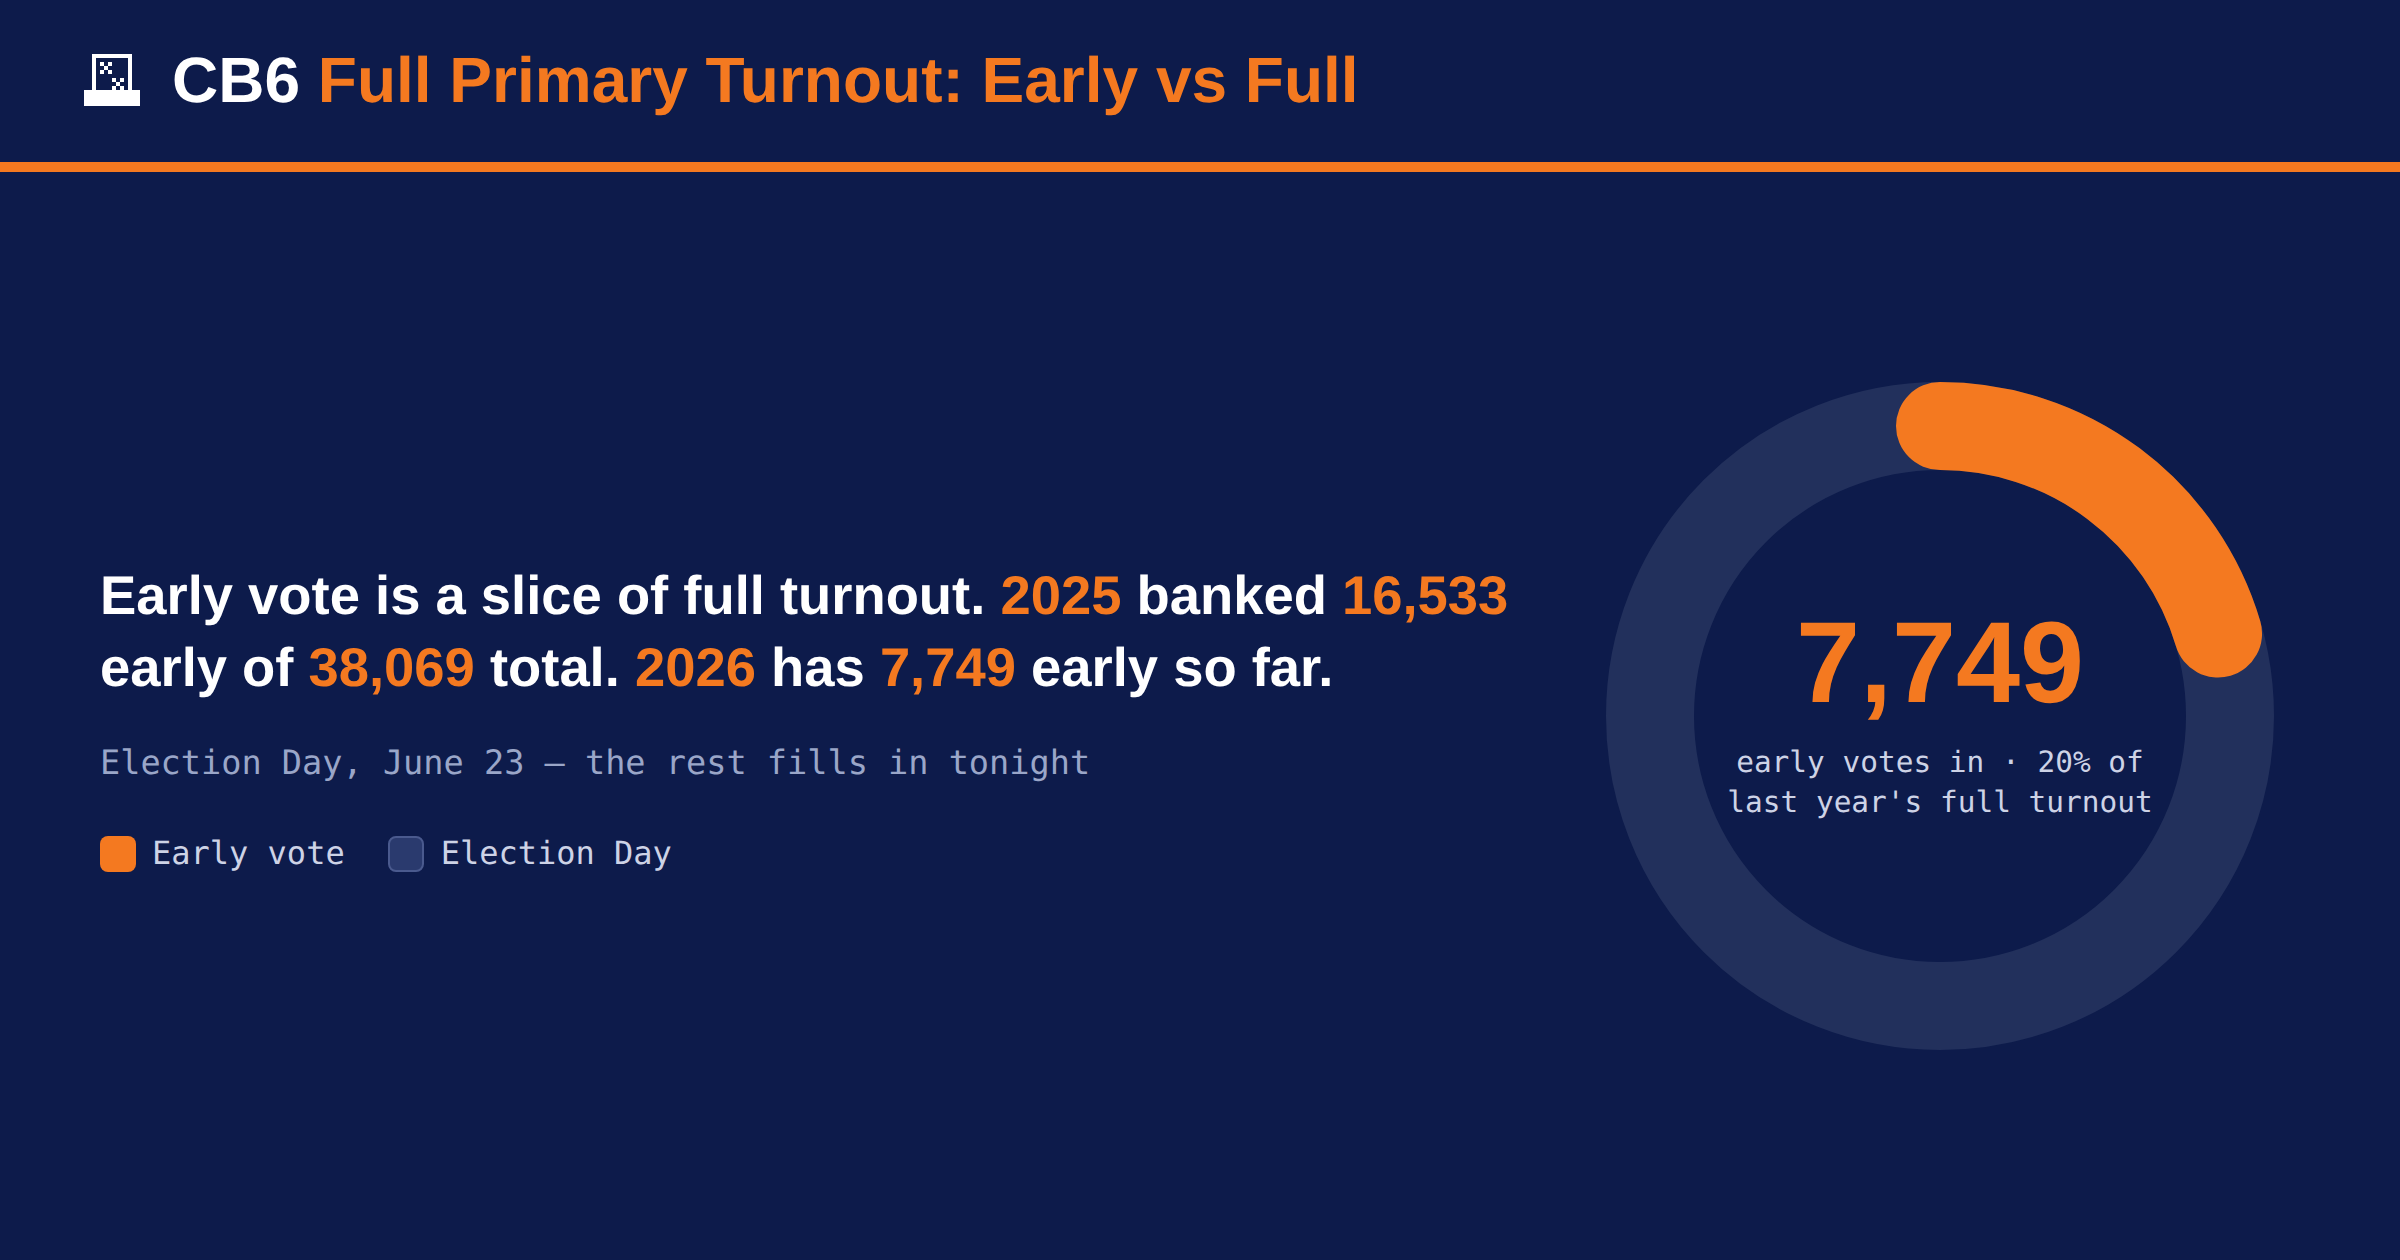
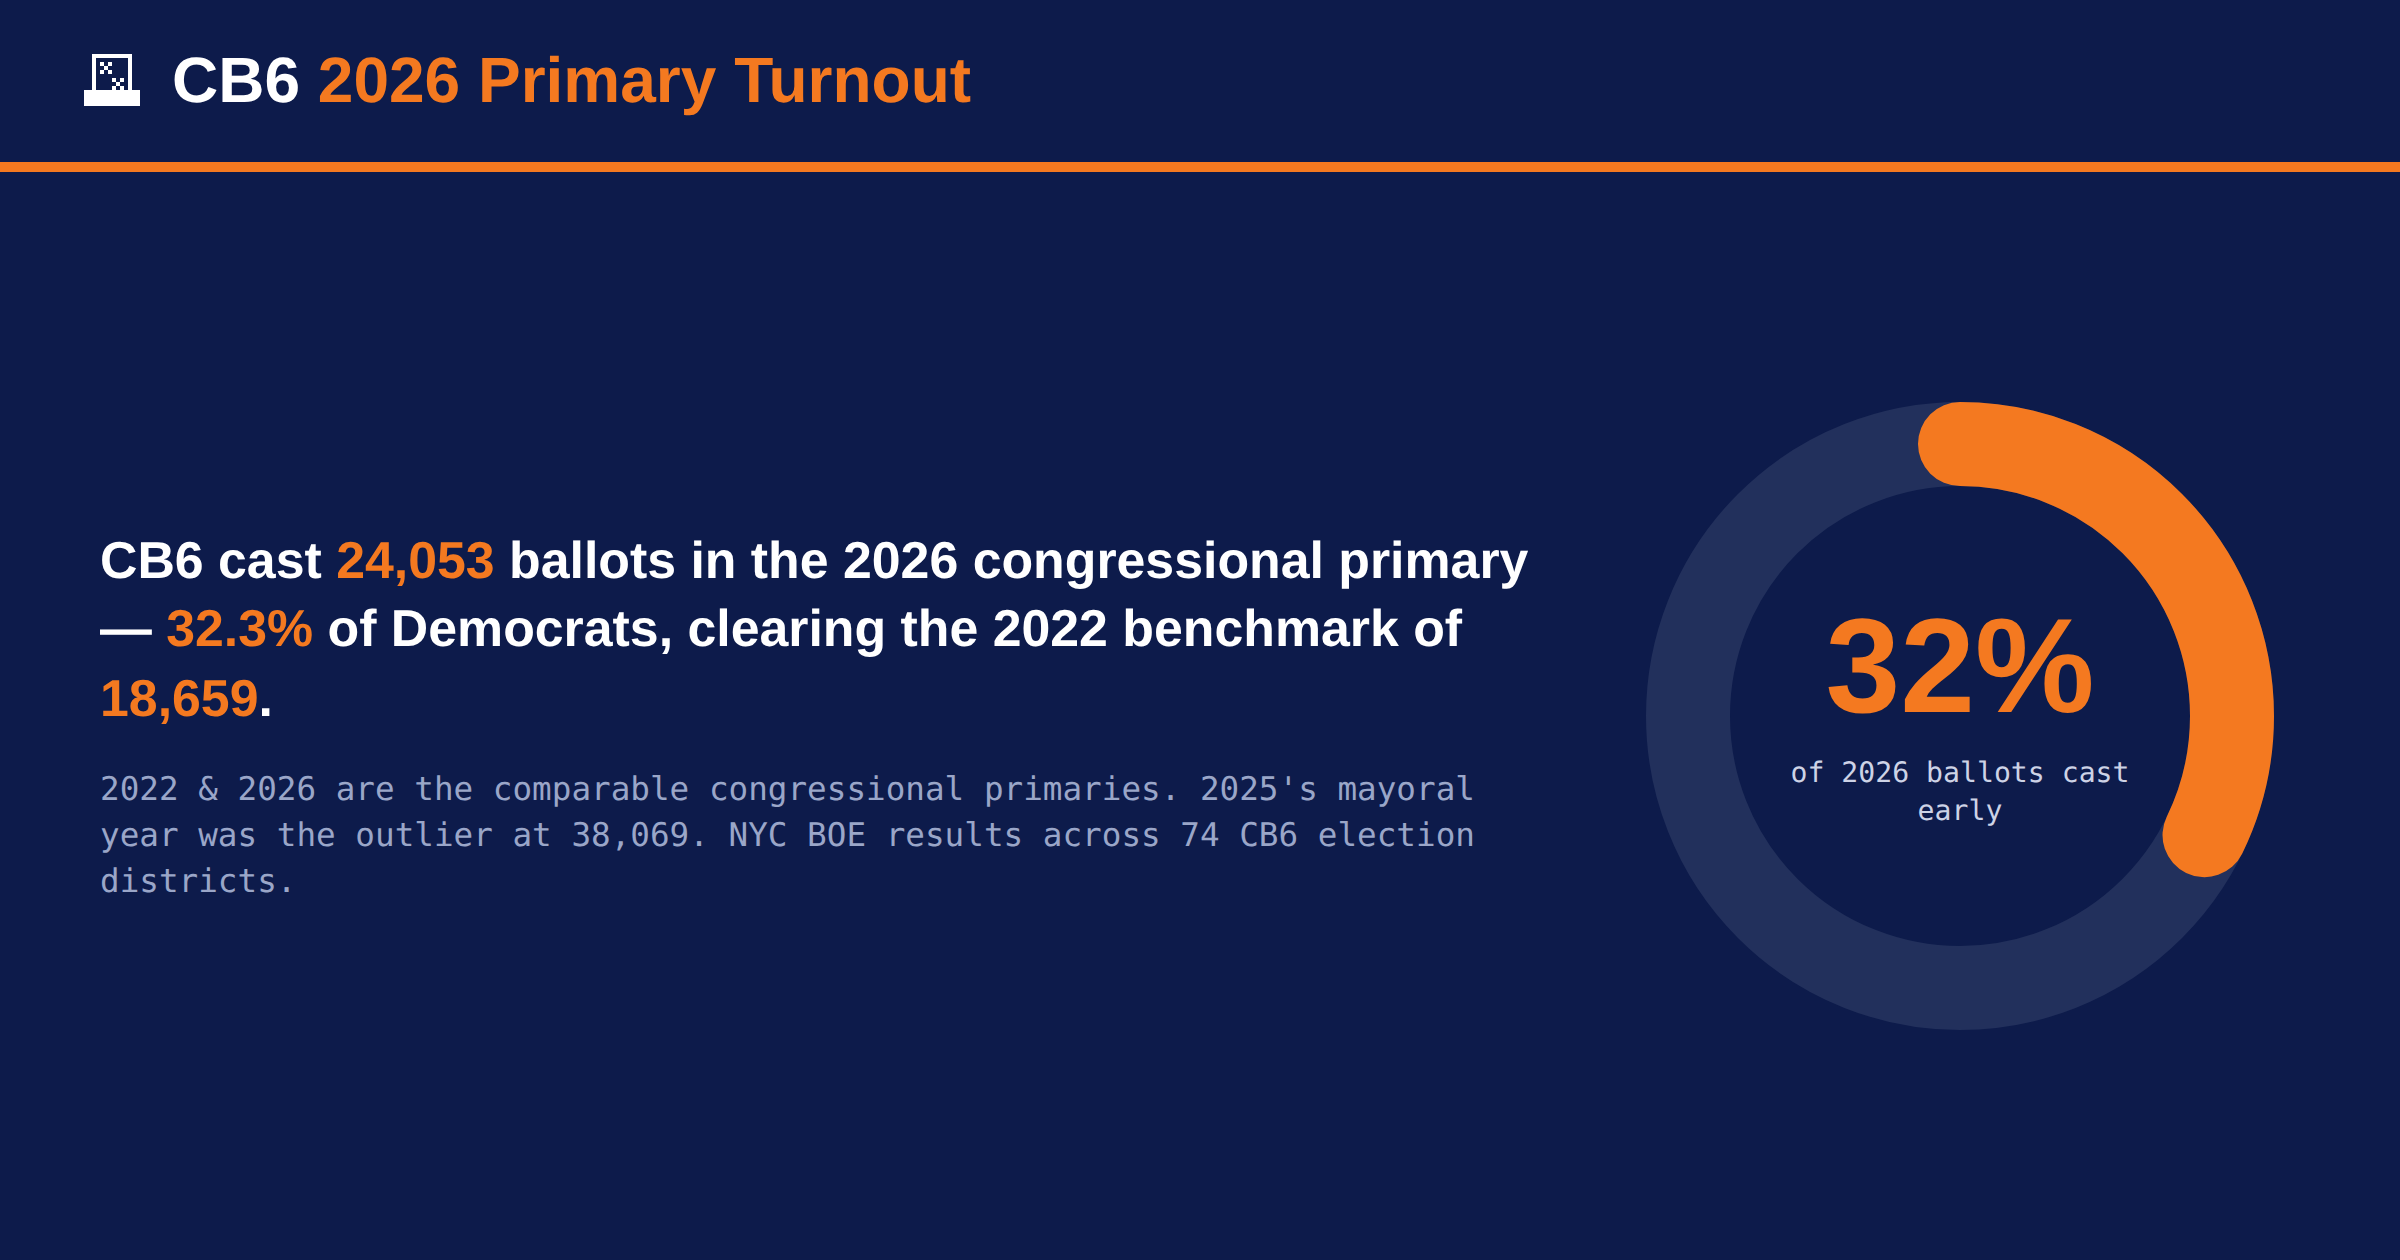
turnout viz: final 2026 results (24,053) + 2022 benchmark bar & line; reframe ring to 32% early; update OG card & stat bar; bump cache

diff --git a/early-vote-map.html b/early-vote-map.html
@@ -7,15 +7,15 @@
 <meta name="apple-mobile-web-app-status-bar-style" content="black-translucent">
 <title>BKCB6 — Early Voting by Election District</title>
 <meta property="og:type" content="website">
-<meta property="og:title" content="CB6 Full Primary Turnout: Early vs Full">
-<meta property="og:description" content="Early vote is a slice of full turnout. 2025 banked 16,533 early of 38,069 total. 2026 has 7,749 early so far — the rest fills in tonight.">
+<meta property="og:title" content="CB6 2026 Primary Turnout">
+<meta property="og:description" content="CB6 cast 24,053 ballots in the 2026 congressional primary — 32.3% of Democrats, clearing the 2022 benchmark of 18,659. 2025 was the mayoral outlier at 38,069.">
 <meta property="og:image" content="https://bkcb6.app/og-early-vote.png">
 <meta property="og:image:width" content="2400">
 <meta property="og:image:height" content="1260">
 <meta property="og:url" content="https://bkcb6.app/early-vote-map.html">
 <meta name="twitter:card" content="summary_large_image">
-<meta name="twitter:title" content="CB6 Full Primary Turnout: Early vs Full">
-<meta name="twitter:description" content="2026 has 7,749 early votes in — 20% of last year's full turnout. The rest fills in tonight.">
+<meta name="twitter:title" content="CB6 2026 Primary Turnout">
+<meta name="twitter:description" content="24,053 ballots cast — 32.3% of Democrats, clearing the 2022 congressional benchmark of 18,659.">
 <meta name="twitter:image" content="https://bkcb6.app/og-early-vote.png">
 <meta name="description" content="Brooklyn CB6 early-vote turnout by election district, 2025 vs 2026 Democratic primaries. NYC Board of Elections data across all 74 CB6 election districts.">
 <link rel="preconnect" href="https://fonts.googleapis.com">
@@ -55,8 +55,11 @@ body{display:flex;flex-direction:column;min-height:100%;height:auto}
 .tn-sw-early{background:#f47920}
 .tn-sw-elec{background:#2a3a6e;border:1px solid #4a5a8e}
 .tn-sw-tbd{background:repeating-linear-gradient(45deg,#13265c,#13265c 5px,#1c2f6e 5px,#1c2f6e 10px);border:1.5px dashed #6b7aa8}
-.tn-chart{display:flex;align-items:flex-end;gap:54px;justify-content:center;height:330px;padding:44px 24px 0;border-bottom:2px solid #2a3a6e;margin-bottom:10px}
-.tn-col{flex:1;max-width:130px;display:flex;flex-direction:column;align-items:center;justify-content:flex-end;height:100%}
+.tn-chart{position:relative;display:flex;align-items:flex-end;gap:26px;justify-content:center;height:330px;padding:44px 20px 0;border-bottom:2px solid #2a3a6e;margin-bottom:10px}
+.tn-col{flex:1;max-width:110px;display:flex;flex-direction:column;align-items:center;justify-content:flex-end;height:100%}
+.tn-seg-solid{background:#f47920;border-radius:6px 6px 0 0}
+.tn-bench{position:absolute;left:20px;right:20px;border-top:2px dashed #f7a05a;z-index:3;pointer-events:none}
+.tn-bench-lab{position:absolute;left:0;top:-15px;font-family:'DM Mono',monospace;font-size:.58rem;color:#f7a05a;background:#0d1b4b;padding:0 5px;white-space:nowrap}
 .tn-stack{width:100%;display:flex;flex-direction:column;justify-content:flex-end;position:relative;height:100%}
 .tn-seg{width:100%;position:relative;display:flex;align-items:center;justify-content:center}
 .tn-seg-early{background:#f47920}
@@ -64,6 +67,7 @@ body{display:flex;flex-direction:column;min-height:100%;height:auto}
 .tn-seg-tbd{background:repeating-linear-gradient(45deg,#13265c,#13265c 5px,#1c2f6e 5px,#1c2f6e 10px);border:1.5px dashed #6b7aa8;border-bottom:none}
 .tn-r25{border-radius:6px 6px 0 0;overflow:hidden}
 .tn-r26{border-radius:6px 6px 0 0}
+.tn-r22{border-radius:6px 6px 0 0;overflow:hidden}
 .tn-seg .tn-lab{font-size:.74rem;font-weight:700;color:#fff;text-align:center;line-height:1.15;text-shadow:0 1px 2px rgba(0,0,0,.35);padding:2px 4px}
 .tn-seg-tbd .tn-lab{color:#aab4d8;font-family:'DM Mono',monospace;font-size:.66rem;font-weight:500;text-shadow:none}
 .tn-total{position:absolute;top:-44px;left:0;right:0;text-align:center}
@@ -71,8 +75,8 @@ body{display:flex;flex-direction:column;min-height:100%;height:auto}
 .tn-total .tn-p{font-size:.7rem;font-family:'DM Mono',monospace;color:#cdd3e6;margin-top:2px;display:block}
 .tn-total.tn-pending{top:-52px}
 .tn-total.tn-pending .tn-n{color:#9aa6c8}
-.tn-cols{display:flex;gap:54px;justify-content:center;max-width:560px;margin:0 auto;padding:0 24px}
-.tn-xlab{flex:1;max-width:130px;text-align:center;margin-top:14px}
+.tn-cols{display:flex;gap:30px;justify-content:center;max-width:560px;margin:0 auto;padding:0 16px}
+.tn-xlab{flex:1;max-width:110px;text-align:center;margin-top:14px}
 .tn-xlab .tn-yr{font-size:1.05rem;font-weight:700}
 .tn-xlab .tn-sub{font-size:.7rem;font-family:'DM Mono',monospace;color:#9aa6c8;margin-top:2px}
 .tn-foot{max-width:560px;margin:20px auto 0;padding:14px 18px 18px;border-top:1px solid #2a3a6e;font-family:'DM Mono',monospace;font-size:.66rem;color:rgba(255,255,255,.55);line-height:1.6}
@@ -101,26 +105,32 @@ body{display:flex;flex-direction:column;min-height:100%;height:auto}
 <body>
 <section id="turnout">
   <div class="tn-head"><h2>🗳 CB6 <span>Full Primary Turnout: Early vs Full</span></h2></div>
-  <div class="tn-stat">Early vote is a slice of full turnout · <b>2025</b> banked <b>16,533</b> early of <b>38,069</b> total · <b>2026</b> has <b>7,749</b> early so far</div>
+  <div class="tn-stat">CB6 cast <b>24,053</b> ballots in the 2026 congressional primary · <b>32.3%</b> of Democrats · clearing the 2022 benchmark of <b>18,659</b>. 2025's mayoral primary was the outlier at <b>38,069</b>.</div>
   <div class="tn-wrap">
     <div class="tn-ring-wrap">
       <div class="tn-donut">
-        <svg width="220" height="220" viewBox="0 0 220 220" aria-label="2026 early vote progress ring">
+        <svg width="220" height="220" viewBox="0 0 220 220" aria-label="2026 early vote share of final turnout">
           <circle cx="110" cy="110" r="88" fill="none" stroke="#22305c" stroke-width="28"/>
           <circle cx="110" cy="110" r="88" fill="none" stroke="#f47920" stroke-width="28"
-            stroke-dasharray="112.7 440.1" stroke-linecap="round" transform="rotate(-90 110 110)"/>
+            stroke-dasharray="178.0 374.9" stroke-linecap="round" transform="rotate(-90 110 110)"/>
         </svg>
-        <div class="tn-ctr"><span class="tn-rn">7,749</span><span class="tn-rl">early votes in &middot; 20% of last year's full turnout</span></div>
+        <div class="tn-ctr"><span class="tn-rn">32%</span><span class="tn-rl">of 2026's 24,053 ballots were cast early</span></div>
       </div>
-      <div class="tn-rsub">Election Day, June 23 &mdash; the rest fills in tonight</div>
+      <div class="tn-rsub">2026 cleared the 2022 congressional benchmark by 29%</div>
     </div>
     <div class="tn-divider"></div>
     <div class="tn-key">
       <span><i class="tn-sw tn-sw-early"></i>Early vote</span>
       <span><i class="tn-sw tn-sw-elec"></i>Election Day</span>
-      <span><i class="tn-sw tn-sw-tbd"></i>Still counting</span>
     </div>
     <div class="tn-chart">
+      <div class="tn-bench" style="bottom:calc((330px - 44px) * 0.49)"><span class="tn-bench-lab">2022 level · 18,659</span></div>
+      <div class="tn-col">
+        <div class="tn-stack tn-r22" style="height:49%">
+          <div class="tn-total"><span class="tn-n">18,659</span><span class="tn-p">26.2% of Dems</span></div>
+          <div class="tn-seg tn-seg-solid" style="height:100%"><span class="tn-lab">18,659<br>total</span></div>
+        </div>
+      </div>
       <div class="tn-col">
         <div class="tn-stack tn-r25">
           <div class="tn-total"><span class="tn-n">38,069</span><span class="tn-p">52.5% of Dems</span></div>
@@ -129,19 +139,20 @@ body{display:flex;flex-direction:column;min-height:100%;height:auto}
         </div>
       </div>
       <div class="tn-col">
-        <div class="tn-stack tn-r26">
-          <div class="tn-total tn-pending"><span class="tn-n">TBD</span><span class="tn-p">full turnout tonight</span></div>
-          <div class="tn-seg tn-seg-tbd" style="height:79.6%"><span class="tn-lab">Election Day<br>June 23<br>counting</span></div>
-          <div class="tn-seg tn-seg-early" style="height:20.4%"><span class="tn-lab">7,749<br>early</span></div>
+        <div class="tn-stack tn-r26" style="height:63.2%">
+          <div class="tn-total"><span class="tn-n">24,053</span><span class="tn-p">32.3% of Dems</span></div>
+          <div class="tn-seg tn-seg-elec" style="height:67.8%"><span class="tn-lab">16,304<br>Election Day</span></div>
+          <div class="tn-seg tn-seg-early" style="height:32.2%"><span class="tn-lab">7,749<br>early</span></div>
         </div>
       </div>
     </div>
     <div class="tn-cols">
+      <div class="tn-xlab"><div class="tn-yr">2022</div><div class="tn-sub">Congressional · 71,307 Dems</div></div>
       <div class="tn-xlab"><div class="tn-yr">2025</div><div class="tn-sub">Mayoral · 72,452 Dems</div></div>
       <div class="tn-xlab"><div class="tn-yr">2026</div><div class="tn-sub">Congressional · 74,397 Dems</div></div>
     </div>
   </div>
-  <div class="tn-foot">Each bar is full primary turnout; the orange base is the early-vote share within it. Both bars share one axis (2025 full = 100%). 2025: 38,069 CB6 ballots cast, all methods (NYC BOE 2025 Primary Cast Vote Records), of which 16,533 were early; the Election-Day-plus-absentee remainder is 21,536. 2026: 7,749 early-vote ballots so far; full turnout pending Election Day results (June 23). The 2026 dashed segment marks vote still being counted, not a projection. Turnout rate = ballots ÷ registered Democrats (NYSBOE enrollment, Kings County).</div>
+  <div class="tn-foot">Each bar is full primary turnout; where split, the orange base is the early-vote share. All three share one axis (2025 full = 100%). 2022: 18,659 CB6 ballots in the NY-10 congressional primary (NYC BOE ED-level results); early vote was not broken out that year, so 2022 shows as a single total. 2025: 38,069 ballots, all methods (NYC BOE 2025 Primary Cast Vote Records), of which 16,533 were early. 2026: 24,053 ballots in the NY-10 congressional primary, of which 7,749 were early and 16,304 cast on Election Day. 2022 and 2026 are the comparable contests (congressional primary, no mayor on the ballot); 2025 was a mayoral year. Turnout rate = ballots ÷ registered Democrats (NYSBOE enrollment, Kings County).</div>
 </section>
 <details class="map-collapse" id="mapDetails">
 <summary>🗺 Early voting by election district — tap to open the map</summary>

diff --git a/cb6-turnout-bars.html b/cb6-turnout-bars.html
@@ -47,7 +47,7 @@ body{font-family:'DM Sans',sans-serif;background:#0d1b4b;color:#fff;padding:0 0 
 </head>
 <body>
 <div class="top-bar"><h1>🗳 CB6 <span>Primary Turnout: Early vs Full</span></h1></div>
-<div class="stat-bar"><span class="big">Early vote is a slice of full turnout &middot; <b>2025</b> banked <b>16,533</b> early of <b>38,069</b> total &middot; <b>2026</b> has <b>7,749</b> early so far</span></div>
+<div class="stat-bar"><span class="big">CB6 cast <b>24,053</b> ballots in the 2026 congressional primary &middot; <b>32.3%</b> of Dems &middot; clearing the 2022 benchmark of <b>18,659</b></span></div>
 <div class="wrap">
   <div class="legend-key">
     <span><i class="swatch sw-early"></i>Early vote</span>
@@ -63,10 +63,10 @@ body{font-family:'DM Sans',sans-serif;background:#0d1b4b;color:#fff;padding:0 0 
       </div>
     </div>
     <div class="col">
-      <div class="stack r26" style="height:100%">
-        <div class="total pending"><span class="n">TBD</span><span class="p">full turnout tonight</span></div>
-        <div class="seg seg-tbd" style="height:79.6%"><span class="lab">Election Day<br>June 23<br>counting</span></div>
-        <div class="seg seg-early" style="height:20.4%"><span class="lab">7,749<br>early</span></div>
+      <div class="stack r26" style="height:63.2%">
+        <div class="total"><span class="n">24,053</span><span class="p">32.3% of Dems</span></div>
+        <div class="seg seg-elec" style="height:67.8%"><span class="lab">16,304<br>Election Day</span></div>
+        <div class="seg seg-early" style="height:32.2%"><span class="lab">7,749<br>early</span></div>
       </div>
     </div>
   </div>
@@ -75,6 +75,6 @@ body{font-family:'DM Sans',sans-serif;background:#0d1b4b;color:#fff;padding:0 0 
     <div class="xlab"><div class="yr">2026</div><div class="sub">Congressional &middot; 74,397 Dems</div></div>
   </div>
 </div>
-<div class="foot">Each bar is full primary turnout; the orange base is the early-vote share within it. Both bars share one axis (2025 full = 100%). 2025: 38,069 CB6 ballots cast, all methods (NYC Board of Elections 2025 Primary Cast Vote Records), of which 16,533 were early; the Election-Day-plus-absentee remainder is 21,536. 2026: 7,749 early-vote ballots so far; full turnout pending Election Day results (June 23). The 2026 dashed segment marks vote still being counted, not a projection. Turnout rate = ballots &divide; registered Democrats (NYS Board of Elections enrollment, Kings County).</div>
+<div class="foot">Each bar is full primary turnout; the orange base is the early-vote share. Both bars share one axis (2025 full = 100%). 2025: 38,069 CB6 ballots, all methods (NYC BOE 2025 Primary Cast Vote Records), of which 16,533 were early. 2026: 24,053 ballots in the NY-10 congressional primary, of which 7,749 were early and 16,304 on Election Day. Turnout rate = ballots &divide; registered Democrats (NYSBOE enrollment, Kings County).</div>
 </body>
 </html>

diff --git a/sw.js b/sw.js
@@ -1,5 +1,5 @@
 // CB6 & Beyond — Service Worker
-const CACHE_VERSION = 'cb6-v143';
+const CACHE_VERSION = 'cb6-v144';
 const CORE_ASSETS = [
   '/',
   '/index.html',
